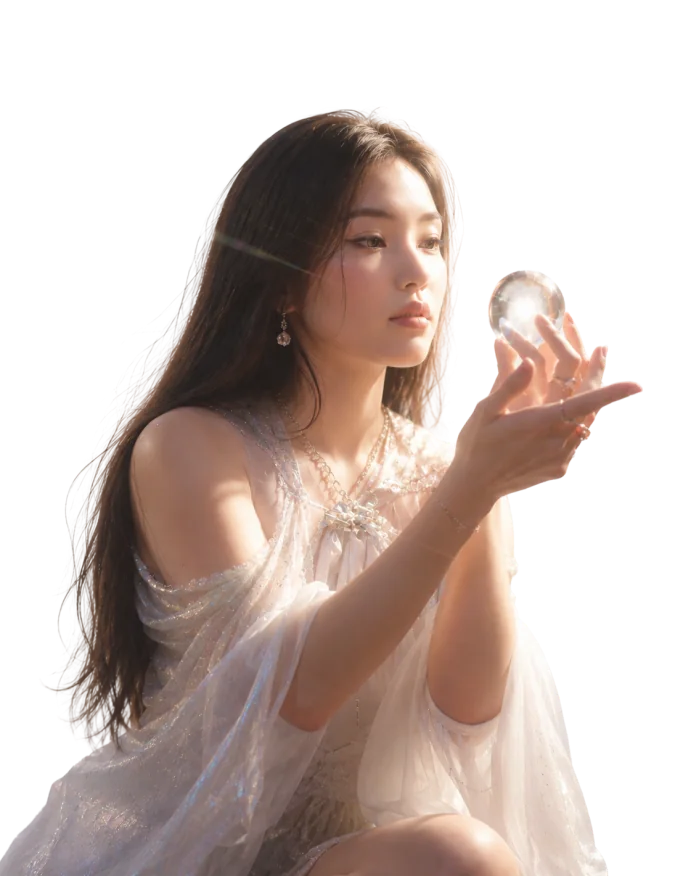
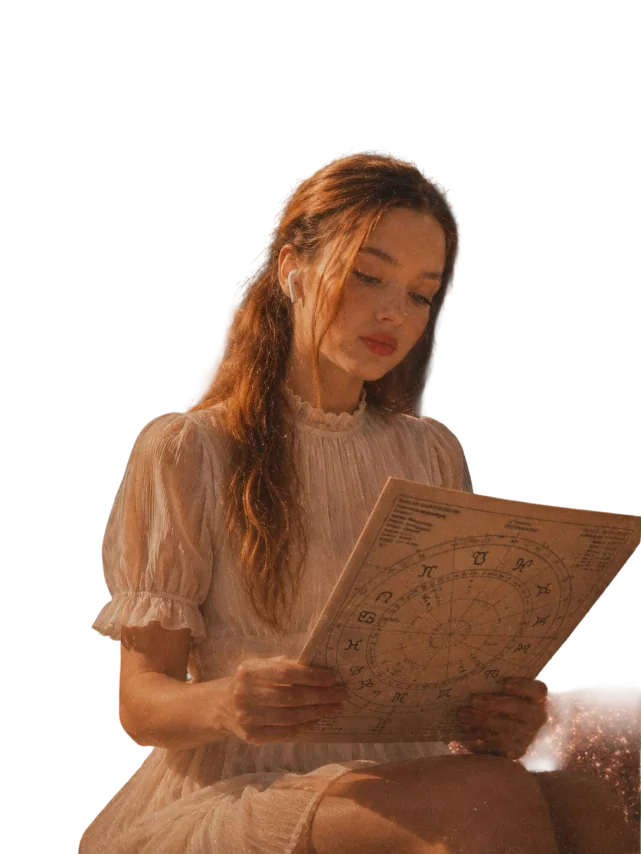
Update versioning for light theme styles and images in landing page. Adjust dimensions for light review images to improve layout consistency.

diff --git a/site/content/landing.html b/site/content/landing.html
@@ -472,7 +472,7 @@
         <div class="reviews__chat">
           <div class="reviews__photo" aria-hidden="true">
             <img class="reviews__photo-img reviews__photo-img--dark" src="/assets/figma/reviews/reviews-woman-dark.webp?v=1" alt="" width="772" height="992" decoding="async">
-            <img class="reviews__photo-img reviews__photo-img--light" src="/assets/figma/reviews/reviews-woman-light.webp?v=1" alt="" width="683" height="876" decoding="async">
+            <img class="reviews__photo-img reviews__photo-img--light" src="/assets/figma/reviews/reviews-woman-light.webp?v=2" alt="" width="641" height="854" decoding="async">
           </div>
           <img class="reviews__rainbow" src="/assets/figma/reviews/rainbow-flare.png?v=1" alt="" aria-hidden="true">
           <div class="reviews__col reviews__col--left">
@@ -496,7 +496,7 @@
           <div class="reviews__mstage">
             <div class="reviews__mvisual" aria-hidden="true">
               <img class="reviews__mphoto reviews__mphoto--dark" src="/assets/figma/reviews/reviews-woman-dark.webp?v=1" alt="" width="772" height="992" decoding="async">
-              <img class="reviews__mphoto reviews__mphoto--light" src="/assets/figma/reviews/reviews-woman-light.webp?v=1" alt="" width="683" height="876" decoding="async">
+              <img class="reviews__mphoto reviews__mphoto--light" src="/assets/figma/reviews/reviews-woman-light.webp?v=2" alt="" width="641" height="854" decoding="async">
             </div>
             <div class="reviews__mbubbles">
               <div class="reviews__bubble reviews__bubble--left reviews__bubble--emoji">😍😍😍</div>

diff --git a/site/app/page.jsx b/site/app/page.jsx
@@ -54,7 +54,7 @@ export default function HomePage() {
         rel="stylesheet"
       />
       <link rel="stylesheet" href="/css/veluna.css?v=73" />
-      <link rel="stylesheet" href="/css/veluna-light.css?v=73" />
+      <link rel="stylesheet" href="/css/veluna-light.css?v=74" />
       <script
         type="application/ld+json"
         dangerouslySetInnerHTML={{ __html: JSON.stringify(faqJsonLd) }}

diff --git a/site/public/css/veluna-light.css b/site/public/css/veluna-light.css
@@ -1031,7 +1031,7 @@
 
 [data-theme="light"] .reviews__photo {
   top: -120px;
-  width: min(720px, 52vw);
+  width: min(641px, 52vw);
   mix-blend-mode: normal;
 }
 
